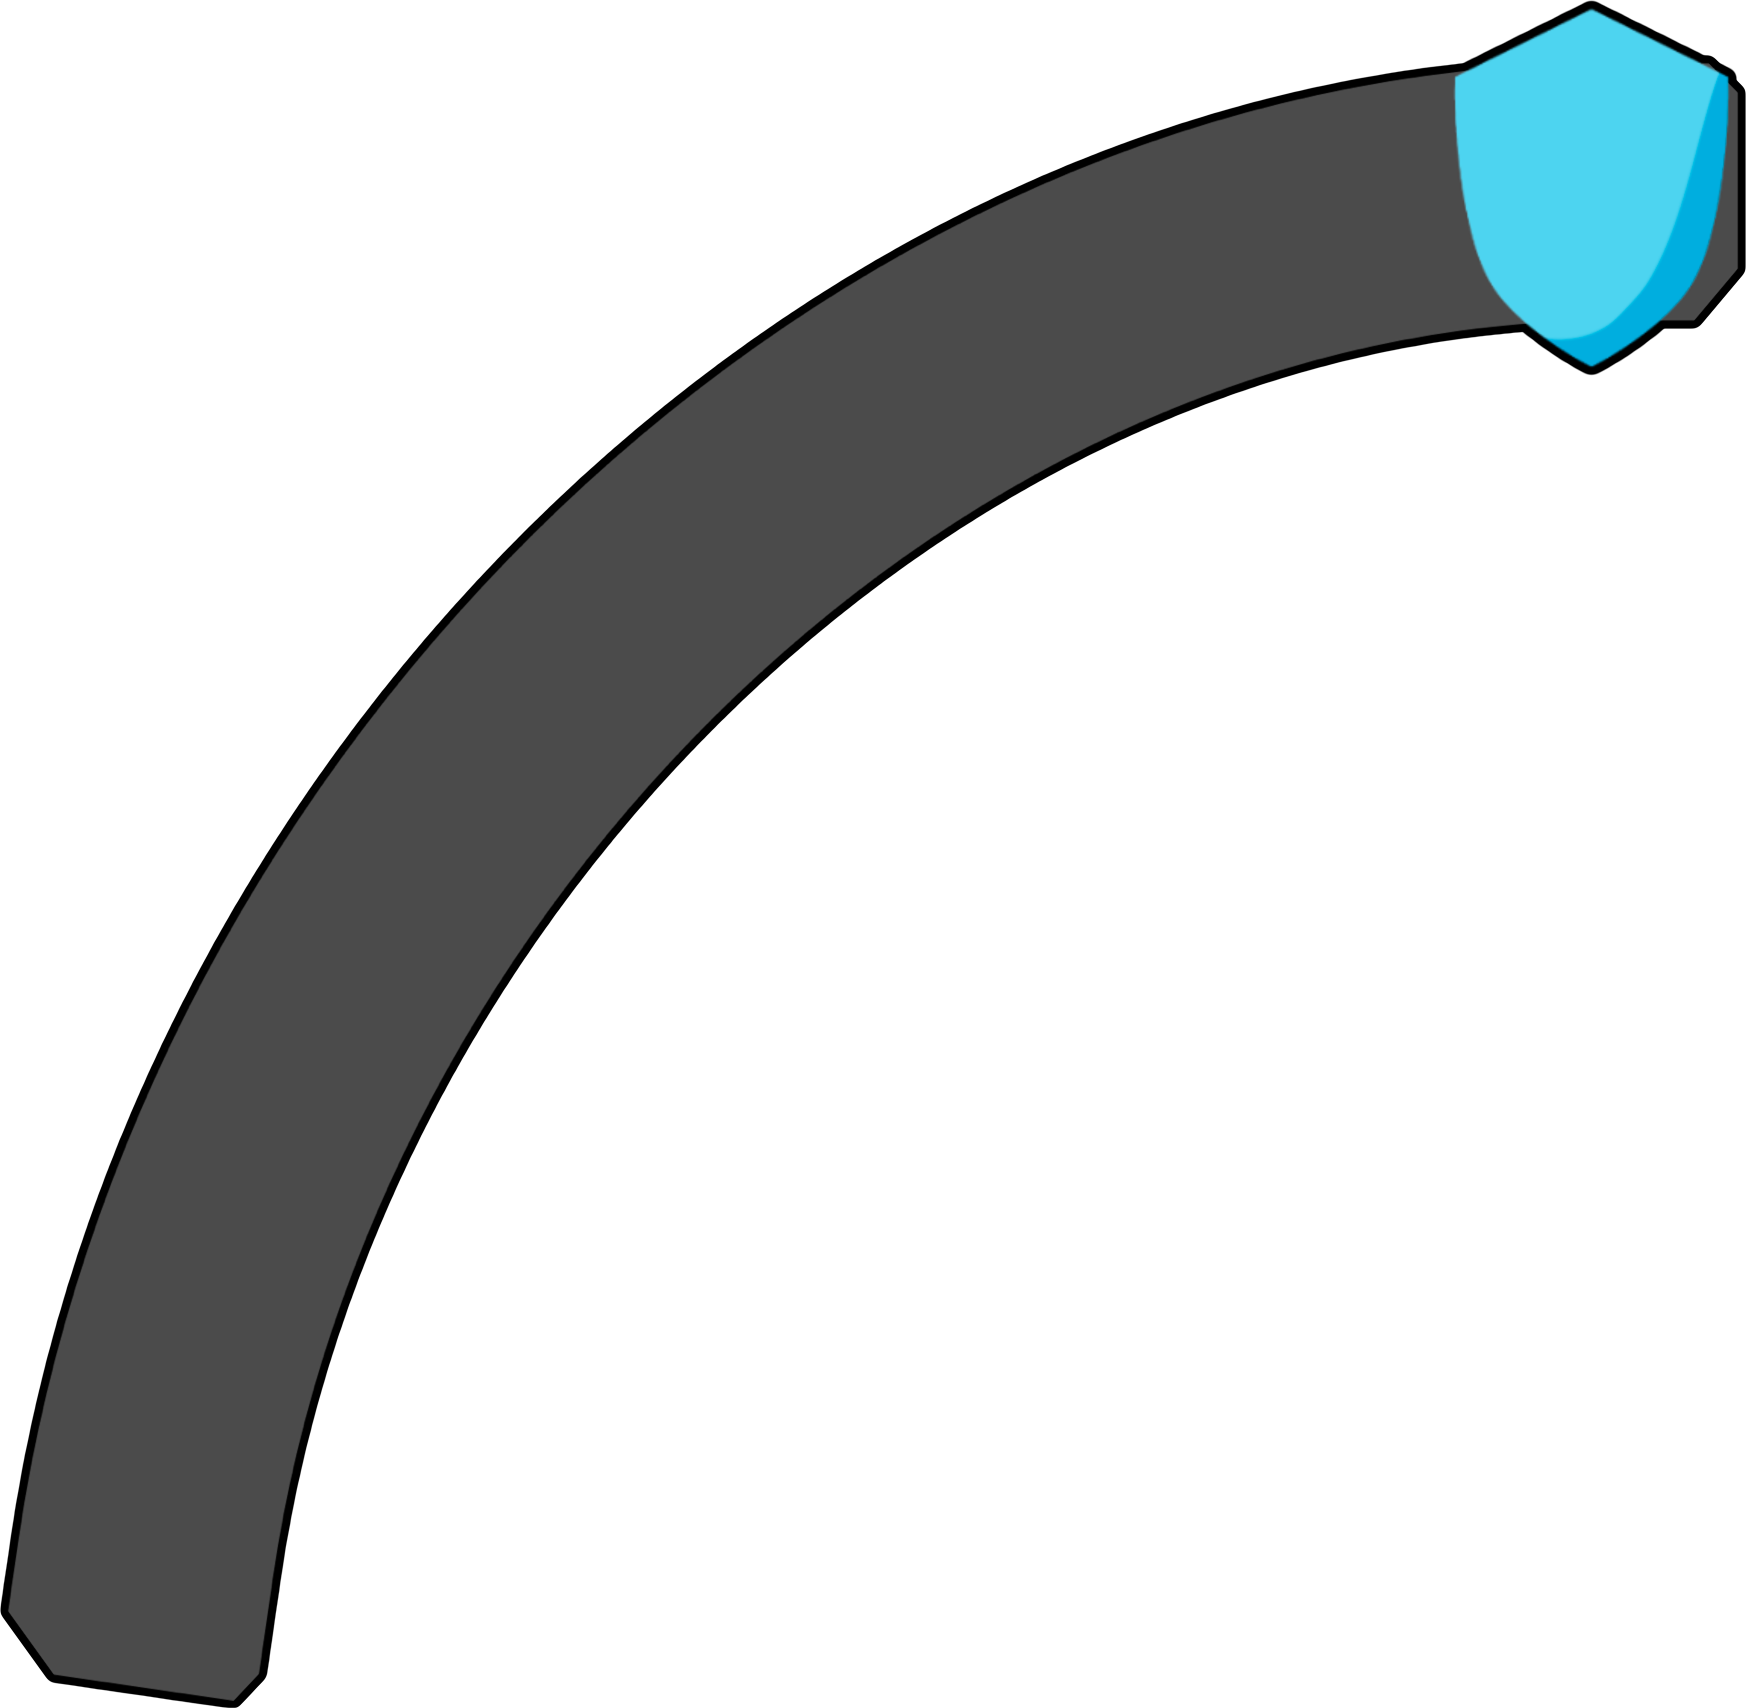
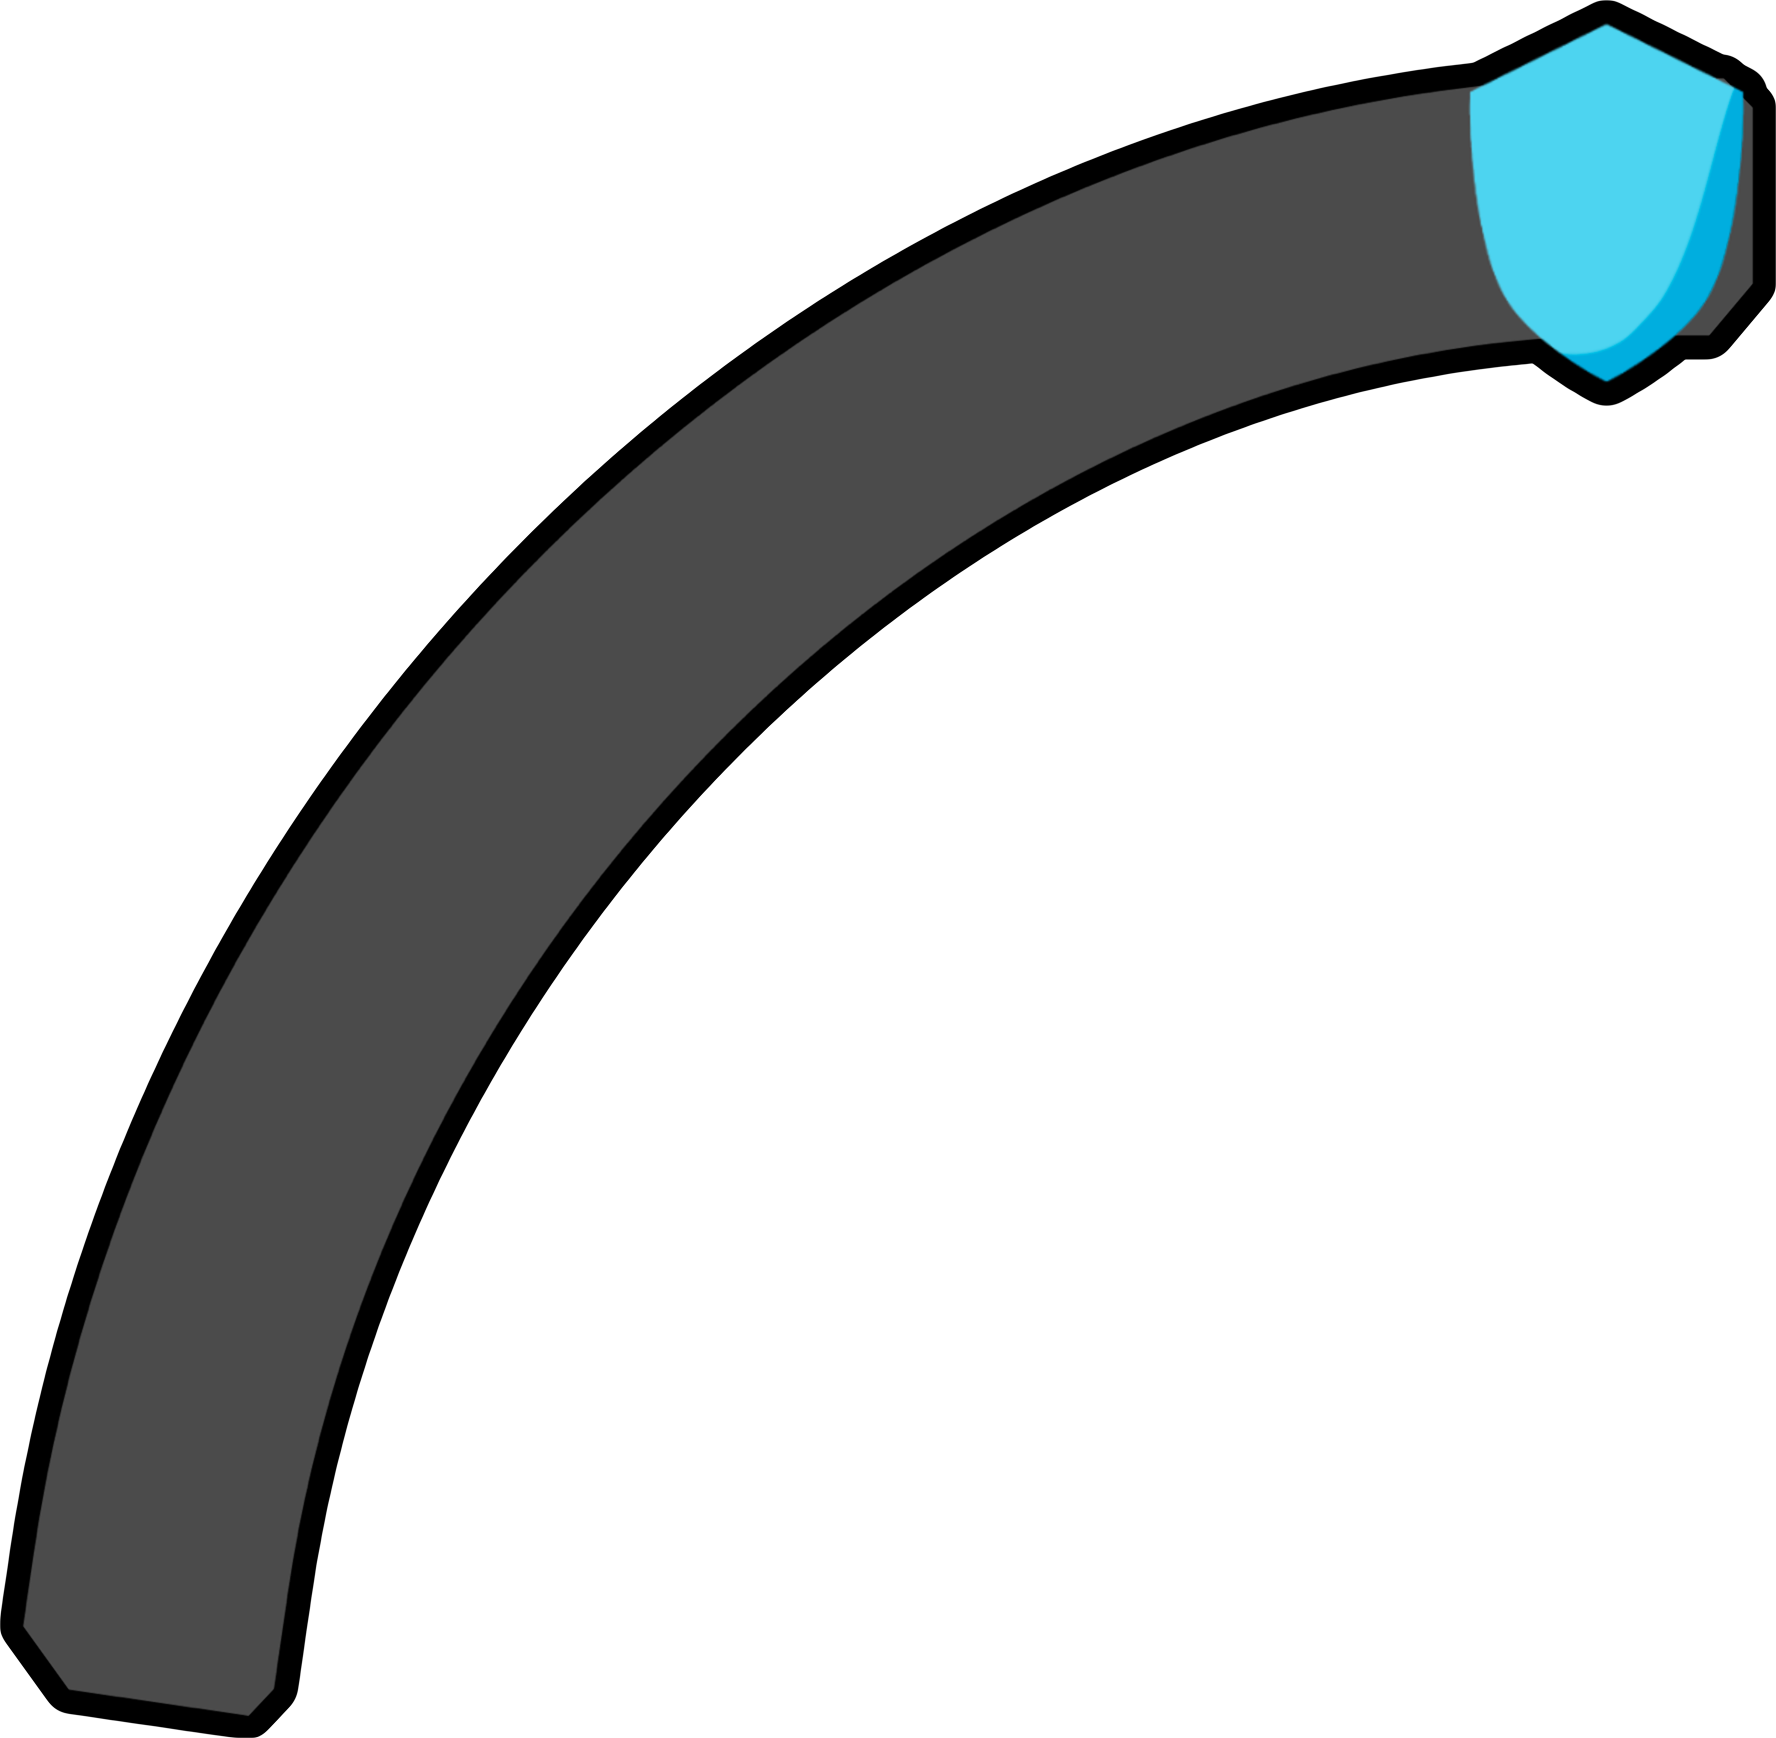
add shot strenght

diff --git a/Assets/Scripts/Weapons/Weapons_Scripts/Coach_Weapon.cs b/Assets/Scripts/Weapons/Weapons_Scripts/Coach_Weapon.cs
@@ -44,6 +44,7 @@ public class Coach_Weapon : MonoBehaviour, IWeapons
     [SerializeField] private float maxDamageMult = 3f;
 
     private float currentCoachCharge = 0f;
+    private float shotStrenght;
 
     public WeaponDataSO WeaponData { get => weaponData; set => weaponData = value; }
 
@@ -81,6 +82,7 @@ public class Coach_Weapon : MonoBehaviour, IWeapons
         rateOfFire = WeaponData.rateOfFire / statsRef.GetStat(StatType.AttackSpeed);
         reloadTime = WeaponData.reloadTime / statsRef.GetStat(StatType.AttackSpeed);
         damage = WeaponData.damage * statsRef.GetStat(StatType.DamageMultiplier);
+        shotStrenght = WeaponData.shotStrenght;
 
         EventBus.Subscribe<OnCoachDetectedDeadEnemy>(UpdateDefeteadEnemies);
         EventBus.Subscribe<OnUnlockCoachLegado>(UpdateCurrentBullet);
@@ -134,7 +136,7 @@ public class Coach_Weapon : MonoBehaviour, IWeapons
                 else if(playerAtkReference.IsAttacking == false && currentCoachCharge > 0)
                 {
                     CalculateChargeAttack();
-                    EventBus.Publish(new OnShootEvent(rateOfFire));
+                    EventBus.Publish(new OnShootEvent(rateOfFire, shotStrenght));
                     EventBus.Publish(new OnAmmoChangedEvent(currentAmmunition));
                     waitToFire = 0;
                 }
@@ -177,7 +179,7 @@ public class Coach_Weapon : MonoBehaviour, IWeapons
             if (IsReloading) return;
 
             Shoot();
-            EventBus.Publish(new OnShootEvent(rateOfFire, 10));
+            EventBus.Publish(new OnShootEvent(rateOfFire, shotStrenght));
             EventBus.Publish(new OnAmmoChangedEvent(currentAmmunition));
             waitToFire = 0;
         }
@@ -286,7 +288,7 @@ public class Coach_Weapon : MonoBehaviour, IWeapons
 
     public void ResetWaitToFire()
     {
-        EventBus.Publish(new OnShootEvent(rateOfFire));
+        EventBus.Publish(new OnShootEvent(rateOfFire, shotStrenght));
         EventBus.Publish(new OnAmmoChangedEvent(currentAmmunition));
         waitToFire = 0;
     }

diff --git a/Assets/Scripts/Weapons/Weapons_Scripts/SpecerRifle_weapon.cs b/Assets/Scripts/Weapons/Weapons_Scripts/SpecerRifle_weapon.cs
@@ -46,6 +46,7 @@ public class SpecerRifle_Weapon : MonoBehaviour, IWeapons, IWeaponBuffer
 
     private float rateOfFire;
     private float baseRateOfFire;
+    private float shotStrenght;
     public float RateOfFire { get => rateOfFire; }
 
     private float currentReloadTime = 0;
@@ -84,6 +85,7 @@ public class SpecerRifle_Weapon : MonoBehaviour, IWeapons, IWeaponBuffer
         //Damage set up
         damage = WeaponData.damage * statsRef.GetStat(StatType.DamageMultiplier);
         baseDamage = damage;
+        shotStrenght = WeaponData.shotStrenght;
 
         EventBus.Subscribe<OnSpencerDetectedDeadEnemy>(CheckEnemiesDefetead);
         EventBus.Subscribe<OnUnlockSpencerLegado>(UpdateCurrentBullet);
@@ -167,7 +169,7 @@ public class SpecerRifle_Weapon : MonoBehaviour, IWeapons, IWeaponBuffer
             if (IsReloading) return;
 
             Shoot();
-            EventBus.Publish(new OnShootEvent(rateOfFire));
+            EventBus.Publish(new OnShootEvent(rateOfFire, shotStrenght));
             EventBus.Publish(new OnAmmoChangedEvent(currentAmmunition));
             waitToFire = 0;
         }
@@ -192,7 +194,7 @@ public class SpecerRifle_Weapon : MonoBehaviour, IWeapons, IWeaponBuffer
     }
     public void ResetWaitToFire()
     {
-        EventBus.Publish(new OnShootEvent(rateOfFire));
+        EventBus.Publish(new OnShootEvent(rateOfFire, shotStrenght));
         EventBus.Publish(new OnAmmoChangedEvent(currentAmmunition));
         waitToFire = 0;
     }

diff --git a/Assets/Scripts/Weapons/Weapons_Scripts/Winchester_Weapon.cs b/Assets/Scripts/Weapons/Weapons_Scripts/Winchester_Weapon.cs
@@ -37,6 +37,8 @@ public class Winchester_Weapon : MonoBehaviour, IWeapons
     private float waitToFire = 0;
 
     private float rateOfFire;
+
+    private float shotStrenght;
     public float RateOfFire { get => rateOfFire; }
 
     private float currentReloadTime = 0;
@@ -65,6 +67,7 @@ public class Winchester_Weapon : MonoBehaviour, IWeapons
         rateOfFire = WeaponData.rateOfFire / statsRef.GetStat(StatType.AttackSpeed);
         reloadTime = WeaponData.reloadTime / statsRef.GetStat(StatType.AttackSpeed);
         damage = WeaponData.damage * statsRef.GetStat(StatType.DamageMultiplier);
+        shotStrenght = WeaponData.shotStrenght;
 
         PlayerData playerData = ServiceLocator.Get<PlayerData>();
 
@@ -107,7 +110,7 @@ public class Winchester_Weapon : MonoBehaviour, IWeapons
             if (IsReloading) return;
 
             Shoot();
-            EventBus.Publish(new OnShootEvent(rateOfFire));
+            EventBus.Publish(new OnShootEvent(rateOfFire, shotStrenght));
             EventBus.Publish(new OnAmmoChangedEvent(currentAmmunition));
             waitToFire = 0;
         }
@@ -165,7 +168,7 @@ public class Winchester_Weapon : MonoBehaviour, IWeapons
     }
     public void ResetWaitToFire()
     {
-        EventBus.Publish(new OnShootEvent(rateOfFire));
+        EventBus.Publish(new OnShootEvent(rateOfFire, shotStrenght));
         EventBus.Publish(new OnAmmoChangedEvent(currentAmmunition));
         waitToFire = 0;
     }

diff --git a/Assets/Scripts/Weapons/Weapons_Scripts/Colt_Weapon.cs b/Assets/Scripts/Weapons/Weapons_Scripts/Colt_Weapon.cs
@@ -49,6 +49,7 @@ public class Colt_Weapon : MonoBehaviour, IWeapons, IWeaponBuffer
     private float baseDamage;
     private float damage;
     private float damageBuff = 0;
+    private float shotStrenght;
 
     [Header("Delay between shoots")]
     [SerializeField] private float delayBetweenShots = 0.05f; // segundos entre bala 1 y bala 2
@@ -85,6 +86,7 @@ public class Colt_Weapon : MonoBehaviour, IWeapons, IWeaponBuffer
         //Damage set up
         damage = WeaponData.damage * statsRef.GetStat(StatType.DamageMultiplier);
         baseDamage = damage;
+        shotStrenght = WeaponData.shotStrenght;
 
         EventBus.Subscribe<OnColtDetectedDeadEnemy>(UpdateDefeteadEnemies);
         EventBus.Subscribe<OnUnlockColtLegado>(UpdateCurrentBullet);
@@ -126,7 +128,7 @@ public class Colt_Weapon : MonoBehaviour, IWeapons, IWeaponBuffer
         if (waitToFire > rateOfFire)
         {
             Shoot();
-            EventBus.Publish(new OnShootEvent(rateOfFire));
+            EventBus.Publish(new OnShootEvent(rateOfFire, shotStrenght));
             // ya NO reiniciamos waitToFire aquí
         }
     }

diff --git a/Assets/Scripts/Weapons/Weapons_Scripts/Base_Weapon.cs b/Assets/Scripts/Weapons/Weapons_Scripts/Base_Weapon.cs
@@ -48,6 +48,7 @@ public class Base_Weapon : MonoBehaviour, IWeapons, IWeaponBuffer
     private float baseDamage;
     private float damage;
     private float damageBuff = 0;
+    private float shotStrengh;
 
     //Referencia a la pool de balas
     private BulletPool bulletPool;
@@ -70,6 +71,7 @@ public class Base_Weapon : MonoBehaviour, IWeapons, IWeaponBuffer
 
         //Damage set up
         damage = WeaponData.damage * statsRef.GetStat(StatType.DamageMultiplier);
+        shotStrengh = weaponData.shotStrenght;
         baseDamage = damage;
 
         EventBus.Subscribe<OnStatChangedEvent>(UpdateStats);
@@ -125,7 +127,7 @@ public class Base_Weapon : MonoBehaviour, IWeapons, IWeaponBuffer
             if (IsReloading) return;
 
             Shoot();
-            EventBus.Publish(new OnShootEvent(rateOfFire));
+            EventBus.Publish(new OnShootEvent(rateOfFire, shotStrengh));
             EventBus.Publish(new OnAmmoChangedEvent(currentAmmunition));
             waitToFire = 0;
         }

diff --git a/Assets/Scripts/Weapons/WeaponDataScripts for ScriptableObjects/WeaponDataSO.cs b/Assets/Scripts/Weapons/WeaponDataScripts for ScriptableObjects/WeaponDataSO.cs
@@ -12,6 +12,9 @@ public class WeaponDataSO : ScriptableObject
     [Header("Rate of fire")]
     [SerializeField] public float rateOfFire;
 
+    [Header("Shot Strenght")]
+    [SerializeField] public float shotStrenght = 1;
+
     [Header("Reload time")]
     [SerializeField] public float reloadTime;
 
